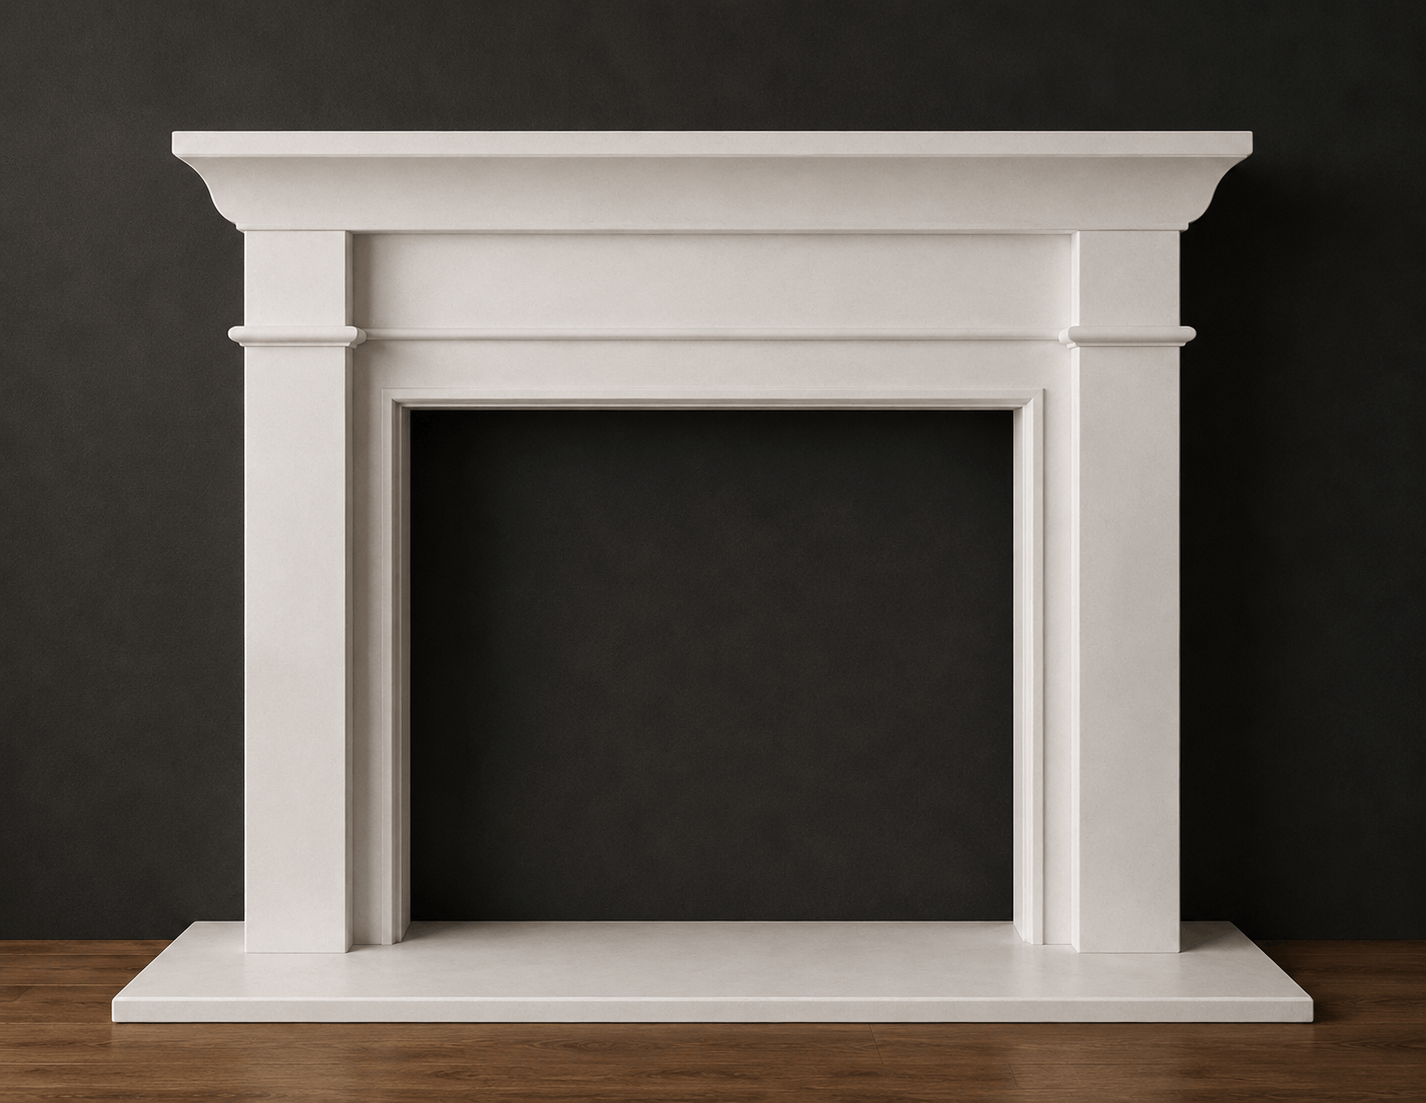
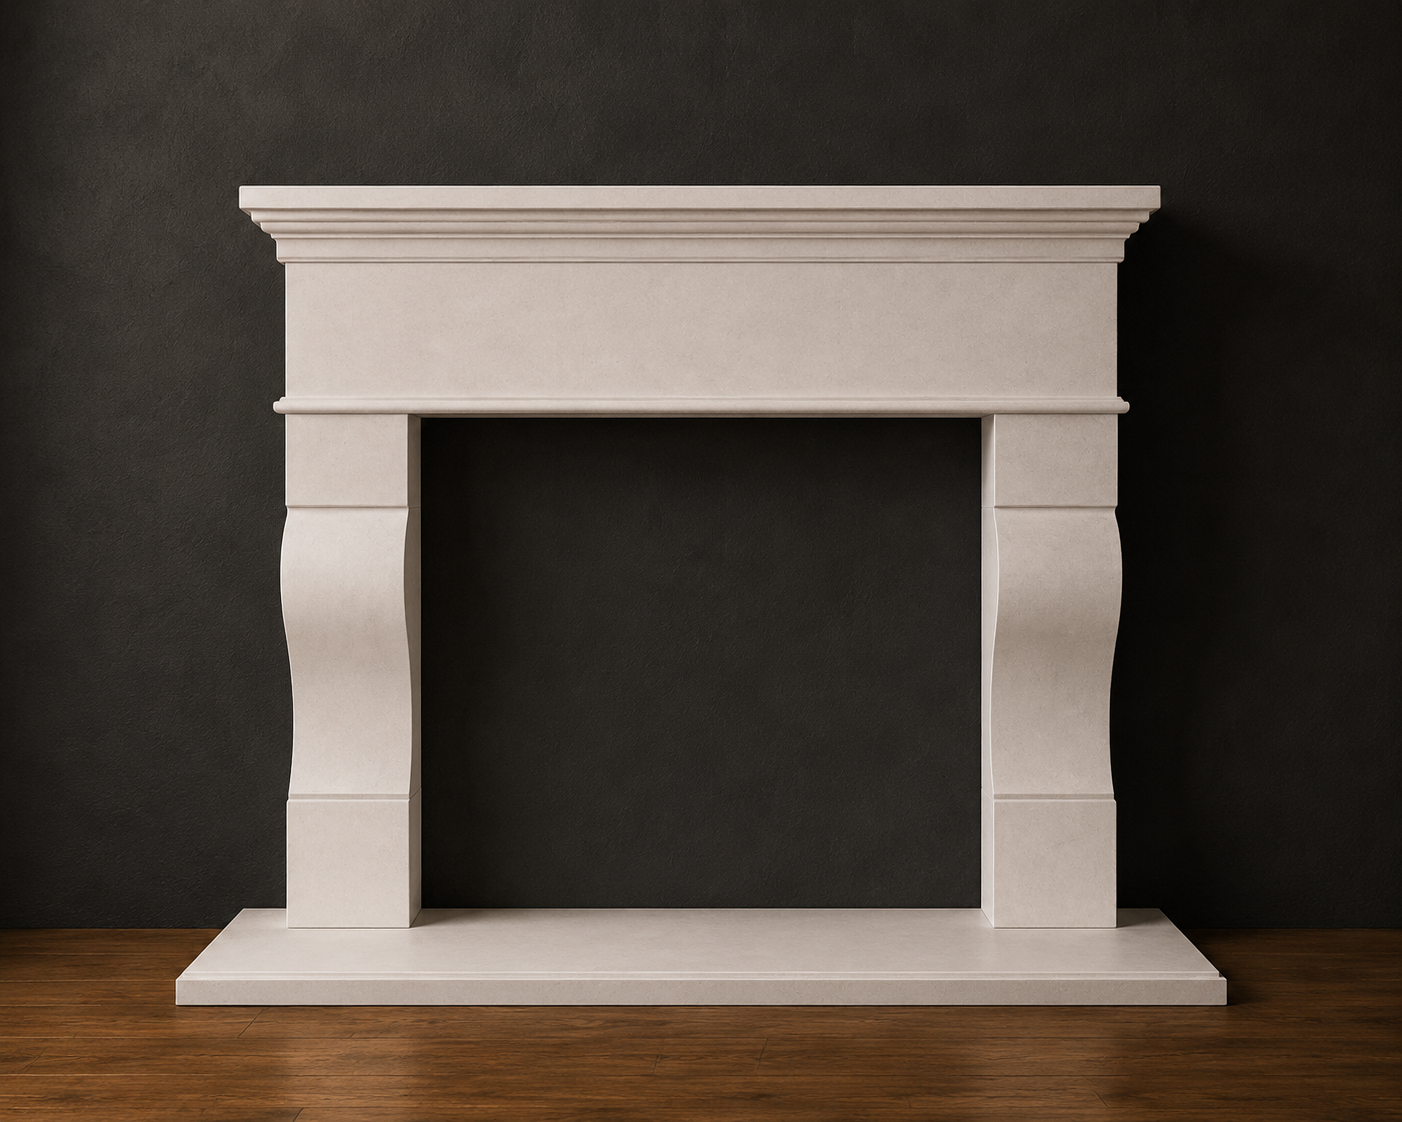
Add beam & wood mantel photos, line drawings, and Benedict gallery
- 8 beams: updated photos + CAD drawing downloads; Hollywood Park product added
- 19 previously-broken Traditional line-drawing downloads fixed
- 9 wood mantels: CAD drawing downloads wired
- Rename Randino -> Benedict with two-photo gallery (new ProductGallery use)
- Beams category now lists the 8 named beams; Gas Fireplaces link -> /fireplaces

diff --git a/src/lib/mantel-products-data.ts b/src/lib/mantel-products-data.ts
@@ -22,6 +22,8 @@ export interface MantelProduct {
   specs?: string;
   cadPdf?: string; // path relative to /public, e.g. "/cad/nullarbor.pdf"
   image?: string;
+  // Additional product photos shown as a gallery on the product page (first item is the main image).
+  images?: string[];
   // Physical dimensions live in mantel-dimensions.ts (keyed by slug), extracted from the CADs.
 }
 
@@ -68,6 +70,7 @@ export const mantelProducts: MantelProduct[] = [
     slug: "hobart-1",
     name: "Hobart",
     type: "beam",
+    cadPdf: "/cad/hobart-1.pdf",
     style: "transitional",
     description:
       "The Hobart Mantel is a classic wood fireplace surround that blends traditional design, architectural balance, and lasting craftsmanship. Handcrafted from premium solid wood with a rich natural finish, this fireplace mantel surround features a wide, prominent top shelf — perfect for displaying décor, artwork, or seasonal accents — supported by sturdy vertical pillars that add both structural strength and refined symmetry. Subtle beveled edges and clean lines highlight its classic appeal, making it versatile enough to complement traditional, transitional, or contemporary interiors.",
@@ -77,6 +80,7 @@ export const mantelProducts: MantelProduct[] = [
     name: "Adelaide",
     type: "wood",
     style: "transitional",
+    cadPdf: "/cad/adelaide.pdf",
     description:
       "The Adelaide Mantel is a classic wood fireplace surround that blends timeless elegance with durable craftsmanship, making it a stunning focal point for any hearth. Designed with clean, straight lines and a perfectly symmetrical layout, this fireplace mantel features a wide mantel shelf ideal for displaying artwork, mirrors, or decorative accents. Elegant fluted vertical columns provide subtle architectural detail, while the smooth wood finish highlights the natural grain and texture, adding warmth and charm to your living space.",
   },
@@ -85,6 +89,7 @@ export const mantelProducts: MantelProduct[] = [
     name: "Brisbane",
     type: "wood",
     style: "transitional",
+    cadPdf: "/cad/brisbane.pdf",
     description:
       "The Brisbane Mantel is a handcrafted wood fireplace surround that combines timeless design, architectural detail, and lasting durability. Featuring a substantial rectangular frame with a subtly beveled edge, this wood fireplace mantel offers a clean, symmetrical design that creates a refined focal point above your fireplace. Its rich natural wood finish highlights the grain and texture, bringing warmth, character, and sophistication to any living space. A broad mantel shelf provides generous space for displaying artwork, mirrors, or seasonal décor.",
   },
@@ -101,6 +106,7 @@ export const mantelProducts: MantelProduct[] = [
     name: "Fremantle",
     type: "wood",
     style: "transitional",
+    cadPdf: "/cad/fremantle.pdf",
     description:
       "The Fremantle Mantel is a classic wood fireplace surround that blends timeless elegance, refined style, and solid durability. Handcrafted from high-quality solid wood, this fireplace mantel surround features a smooth finish that enhances the natural wood grain and rich texture, bringing warmth, character, and charm to your living space. With its clean lines, balanced proportions, and subtle architectural detailing, the Fremantle creates a sophisticated focal point that complements both traditional fireplaces and modern hearth designs.",
   },
@@ -109,6 +115,7 @@ export const mantelProducts: MantelProduct[] = [
     name: "Canberra",
     type: "wood",
     style: "transitional",
+    cadPdf: "/cad/canberra.pdf",
     description:
       "The Canberra Mantel is a classic wood fireplace surround that blends timeless elegance, durable craftsmanship, and versatile design. Expertly crafted from high-quality wood, this fireplace mantel surround features a sturdy frame with clean lines and subtle detailing, creating a refined and sophisticated centerpiece for your hearth. Its slightly projecting mantel shelf provides both functional display space and architectural balance. The vertical supports with gently recessed paneling add depth, dimension, and texture, enhancing the mantel's traditional charm.",
   },
@@ -734,6 +741,8 @@ export const mantelProducts: MantelProduct[] = [
     slug: "noarlunga",
     name: "Noarlunga",
     type: "beam",
+    image: "/mantels/noarlunga.png",
+    cadPdf: "/cad/noarlunga.pdf",
     style: "beams",
     description:
       "The Noarlunga Mantel is a traditionally styled precast fireplace surround with clean pilasters, layered molding details, and a substantial mantel shelf. Its classic design and durable precast construction deliver lasting elegance for any traditional interior.",
@@ -1028,6 +1037,7 @@ export const mantelProducts: MantelProduct[] = [
     name: "Melbourne",
     type: "wood",
     style: "traditional",
+    cadPdf: "/cad/melbourne.pdf",
     description:
       "The Melbourne Mantel is a classic wood fireplace surround with clean lines, a generous shelf, and refined symmetry. Handcrafted from premium solid wood, its smooth finish highlights the natural grain, bringing warmth and sophistication to traditional and transitional living spaces.",
   },
@@ -1036,6 +1046,7 @@ export const mantelProducts: MantelProduct[] = [
     name: "Perth",
     type: "wood",
     style: "traditional",
+    cadPdf: "/cad/perth.pdf",
     description:
       "The Perth Mantel is a beautifully crafted wood fireplace surround with a clean, symmetrical profile and a wide display shelf. Its elegant proportions and rich wood finish make it a timeless focal point for traditional and transitional living rooms.",
   },
@@ -1044,6 +1055,7 @@ export const mantelProducts: MantelProduct[] = [
     name: "Peterborough",
     type: "wood",
     style: "traditional",
+    cadPdf: "/cad/peterborough.pdf",
     description:
       "The Peterborough Mantel is a traditionally styled wood fireplace surround with decorative column legs, a detailed frieze, and a broad mantel shelf. Its classic English-inspired design adds warmth, character, and architectural charm to any hearth.",
   },
@@ -1052,22 +1064,46 @@ export const mantelProducts: MantelProduct[] = [
     name: "Sydney",
     type: "wood",
     style: "transitional",
+    cadPdf: "/cad/sydney.pdf",
     description:
       "The Sydney Mantel is a versatile wood fireplace surround that blends clean contemporary lines with the warmth of solid wood craftsmanship. Its transitional design suits a broad range of interiors, from modern open-plan homes to classic California living rooms.",
   },
   {
-    slug: "randino",
-    name: "Randino",
+    slug: "nelson",
+    name: "Nelson",
     type: "wood",
     style: "transitional",
+    image: "/mantels/nelson.png",
     description:
-      "The Randino Mantel is a refined wood fireplace surround with a sleek profile and understated detailing. Its clean silhouette and quality wood finish create a sophisticated hearth feature that bridges traditional and modern interior styles.",
+      "The Nelson Mantel is a solid wood fireplace surround with a clean, substantial profile and warm natural grain. Its transitional styling bridges classic and contemporary interiors, creating an inviting hearth feature in farmhouse, craftsman, and modern homes alike.",
+  },
+  {
+    slug: "benedict",
+    name: "Benedict",
+    type: "wood",
+    style: "transitional",
+    image: "/mantels/benedict.jpg",
+    images: ["/mantels/benedict.jpg", "/mantels/benedict-unfinished.jpg"],
+    description:
+      "The Benedict Mantel is a refined wood fireplace surround with a sleek profile and understated detailing. Its clean silhouette and quality wood finish create a sophisticated hearth feature that bridges traditional and modern interior styles.",
   },
   // --- Beams ---
+  {
+    slug: "hollywood-park",
+    name: "Hollywood Park",
+    type: "beam",
+    image: "/mantels/hollywood-park.png",
+    cadPdf: "/cad/hollywood-park.pdf",
+    style: "traditional",
+    description:
+      "The Hollywood Park Beam Mantel is a handcrafted wood fireplace beam with a refined, substantial profile and warm natural grain. Its timeless proportions suit traditional, transitional, and craftsman interiors, creating an inviting focal point above gas or wood-burning fireplaces.",
+  },
   {
     slug: "collingwood",
     name: "Collingwood",
     type: "beam",
+    image: "/mantels/collingwood.png",
+    cadPdf: "/cad/collingwood.pdf",
     style: "traditional",
     description:
       "The Collingwood Beam Mantel is a classic wood fireplace beam with rich natural character and a substantial profile. Crafted for warmth and rustic charm, it creates an inviting focal point above gas or wood-burning fireplaces in traditional and transitional homes.",
@@ -1076,6 +1112,8 @@ export const mantelProducts: MantelProduct[] = [
     slug: "essendon",
     name: "Essendon",
     type: "beam",
+    image: "/mantels/essendon.png",
+    cadPdf: "/cad/essendon.pdf",
     style: "traditional",
     description:
       "The Essendon Beam Mantel is a handcrafted wood fireplace beam with clean proportions and natural wood grain. Its classic styling suits farmhouse, craftsman, and traditional interiors, delivering timeless warmth and character above any hearth.",
@@ -1100,6 +1138,8 @@ export const mantelProducts: MantelProduct[] = [
     slug: "norwood",
     name: "Norwood",
     type: "beam",
+    image: "/mantels/norwood.png",
+    cadPdf: "/cad/norwood.pdf",
     style: "traditional",
     description:
       "The Norwood Beam Mantel is a classically proportioned wood fireplace beam with a smooth finish and refined profile. Its versatile design suits traditional, transitional, and craftsman-style interiors, providing a clean and warm focal point above any hearth.",
@@ -1108,6 +1148,8 @@ export const mantelProducts: MantelProduct[] = [
     slug: "yalumba",
     name: "Yalumba",
     type: "beam",
+    image: "/mantels/yalumba.png",
+    cadPdf: "/cad/yalumba.pdf",
     style: "traditional",
     description:
       "The Yalumba Beam Mantel is a beautifully finished wood fireplace beam with natural grain character and warm tones. Its classic proportions and quality craftsmanship make it a timeless addition to farmhouse, traditional, and transitional living spaces.",
@@ -1140,6 +1182,8 @@ export const mantelProducts: MantelProduct[] = [
     slug: "hackney",
     name: "Hackney",
     type: "beam",
+    image: "/mantels/hackney.png",
+    cadPdf: "/cad/hackney.pdf",
     style: "transitional",
     description:
       "The Hackney Beam Mantel is a contemporary wood fireplace beam with a clean, architectural profile and smooth finish. Its modern sensibility and warm wood character make it ideal for transitional homes seeking a refined yet natural hearth feature.",
@@ -1148,6 +1192,8 @@ export const mantelProducts: MantelProduct[] = [
     slug: "payneham",
     name: "Payneham",
     type: "beam",
+    image: "/mantels/payneham.png",
+    cadPdf: "/cad/payneham.pdf",
     style: "traditional",
     description:
       "The Payneham Beam Mantel is a traditionally styled wood fireplace beam with natural character and warm proportions. Its classic design and quality wood construction make it a timeless choice for traditional, farmhouse, and craftsman-style living spaces.",

diff --git a/src/app/mantels/[slug]/page.tsx b/src/app/mantels/[slug]/page.tsx
@@ -15,6 +15,18 @@ const traditionalFacets = [
   { slug: "traditional-ornate", label: "Ornate" },
 ];
 
+// The eight wood beam mantels that live under the Beams navigation.
+const beamSlugs = [
+  "payneham",
+  "yalumba",
+  "norwood",
+  "noarlunga",
+  "hollywood-park",
+  "hackney",
+  "essendon",
+  "collingwood",
+];
+
 // Which mantel-products-data products belong on each category page
 function getProductsForCategory(slug: string) {
   switch (slug) {
@@ -31,9 +43,11 @@ function getProductsForCategory(slug: string) {
     case "overmantels":
       return mantelProducts.filter((p) => p.type === "overmantel");
     case "wood-surrounds":
-      return mantelProducts.filter((p) => p.type === "wood" || (p.type === "beam" && p.slug !== "noarlunga") || p.slug === "hobart-1" || p.slug === "kendall-1");
+      return mantelProducts.filter((p) => p.type === "wood" || (p.type === "beam" && !beamSlugs.includes(p.slug)) || p.slug === "hobart-1" || p.slug === "kendall-1");
     case "beams":
-      return mantelProducts.filter((p) => p.slug === "noarlunga");
+      return beamSlugs
+        .map((s) => mantelProducts.find((p) => p.slug === s))
+        .filter((p): p is (typeof mantelProducts)[number] => Boolean(p));
     default:
       return [];
   }

diff --git a/src/app/mantels/p/[slug]/page.tsx b/src/app/mantels/p/[slug]/page.tsx
@@ -2,6 +2,7 @@ import { notFound } from "next/navigation";
 import Link from "next/link";
 import Image from "next/image";
 import ZoomableImage from "@/components/ZoomableImage";
+import ProductGallery from "@/components/ProductGallery";
 import {
   getMantelProduct,
   mantelProducts,
@@ -84,7 +85,9 @@ export default async function MantelProductPage({ params }: { params: Promise<{ 
       <section className="max-w-7xl mx-auto px-4 sm:px-6 lg:px-8 py-16">
         <div className="grid grid-cols-1 lg:grid-cols-2 gap-12">
           {/* Product image */}
-          {product.image ? (
+          {product.images && product.images.length > 1 ? (
+            <ProductGallery images={product.images} alt={product.name} />
+          ) : product.image ? (
             <ZoomableImage src={product.image} alt={product.name} />
           ) : (
             <div className="relative bg-stone-100 rounded-2xl overflow-hidden h-80 flex items-center justify-center text-7xl">🪨</div>

diff --git a/src/app/page.tsx b/src/app/page.tsx
@@ -30,8 +30,8 @@ const categories = [
   },
   {
     title: "Gas Fireplaces",
-    description: "Efficient, beautiful gas inserts from the top brands in the industry.",
-    href: "/fireplaces/gas-inserts",
+    description: "Efficient, beautiful gas fireplaces from the top brands in the industry.",
+    href: "/fireplaces",
     image: "/brands/ortal/room-mountain-cabin.jpg",
   },
   {